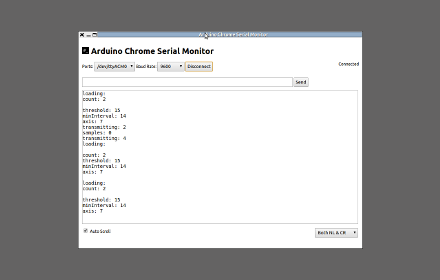
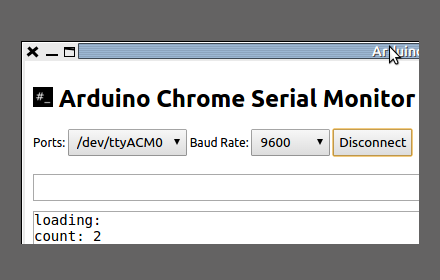
reset received data after connect

diff --git a/main.js b/main.js
@@ -36,6 +36,7 @@ function connect(path, baudrate) {
   if (port && port.isConnected()) {
     port.disconnect();
   } else {
+    outputTextArea.innerHTML = ""; 
     port = new SerialPort(path, {
       bitrate: parseInt(baudrate),
       ctsFlowControl: true
